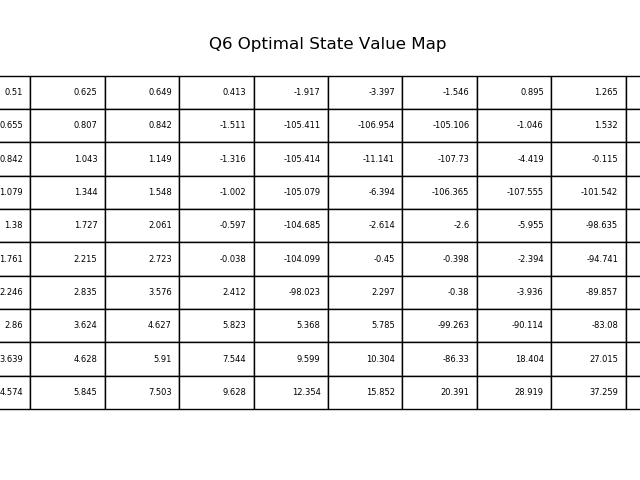
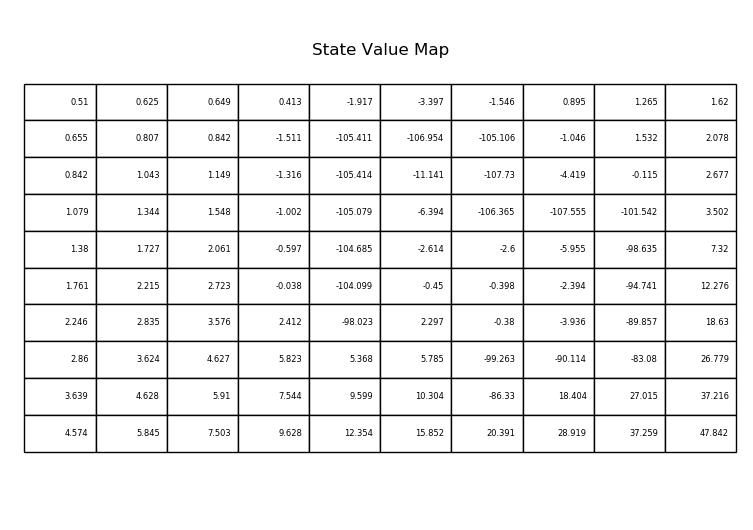
New Pics

Changed region(s): [[0.0, 0.1562, 1.0, 0.875], [0.3125, 0.0625, 0.6875, 0.125]]

diff --git a/Project_3/Project3_Report.md b/Project_3/Project3_Report.md
@@ -116,4 +116,15 @@ In the orginal settings, there are a few states with very low rewards (-100) and
 ## Question 24
 
 ![ground truth policy](./plots/linzuo/Q24_1.png)
-As we can see, the general trend is still reaching for the reward at the bottom right corner. However, there is a discrepency. Both the learned policy and ground truth policy has outward actions to avoid going into the center rewards with penalty policy. However, the learned state value functions cannot represent the large penalties represented in original reward function from the ground truth policy.  
+As we can see, the general trend is still reaching for the reward at the bottom right corner. However, there is a discrepency. Both the learned policy and ground truth policy has outward actions to avoid going into the center rewards with penalty policy. However, the learned state value functions cannot represent the large penalties represented in original reward function from the ground truth policy.
+
+## Question 25
+From the learned policy, we can see one of the discrepancy is that the negative reward is at the center top of the grid. Which is different from the ground truth reward function.
+
+In order to improve the accuracy, we changed our value iteration alogrithm so that V is initialized to the given reward function so th
+
+Improved Accuracy
+![Q25](./plots/linzuo/Q25_1.png)
+Newly Learned optimal policy map
+![Q25](./plots/linzuo/Q25_2.png)
+
